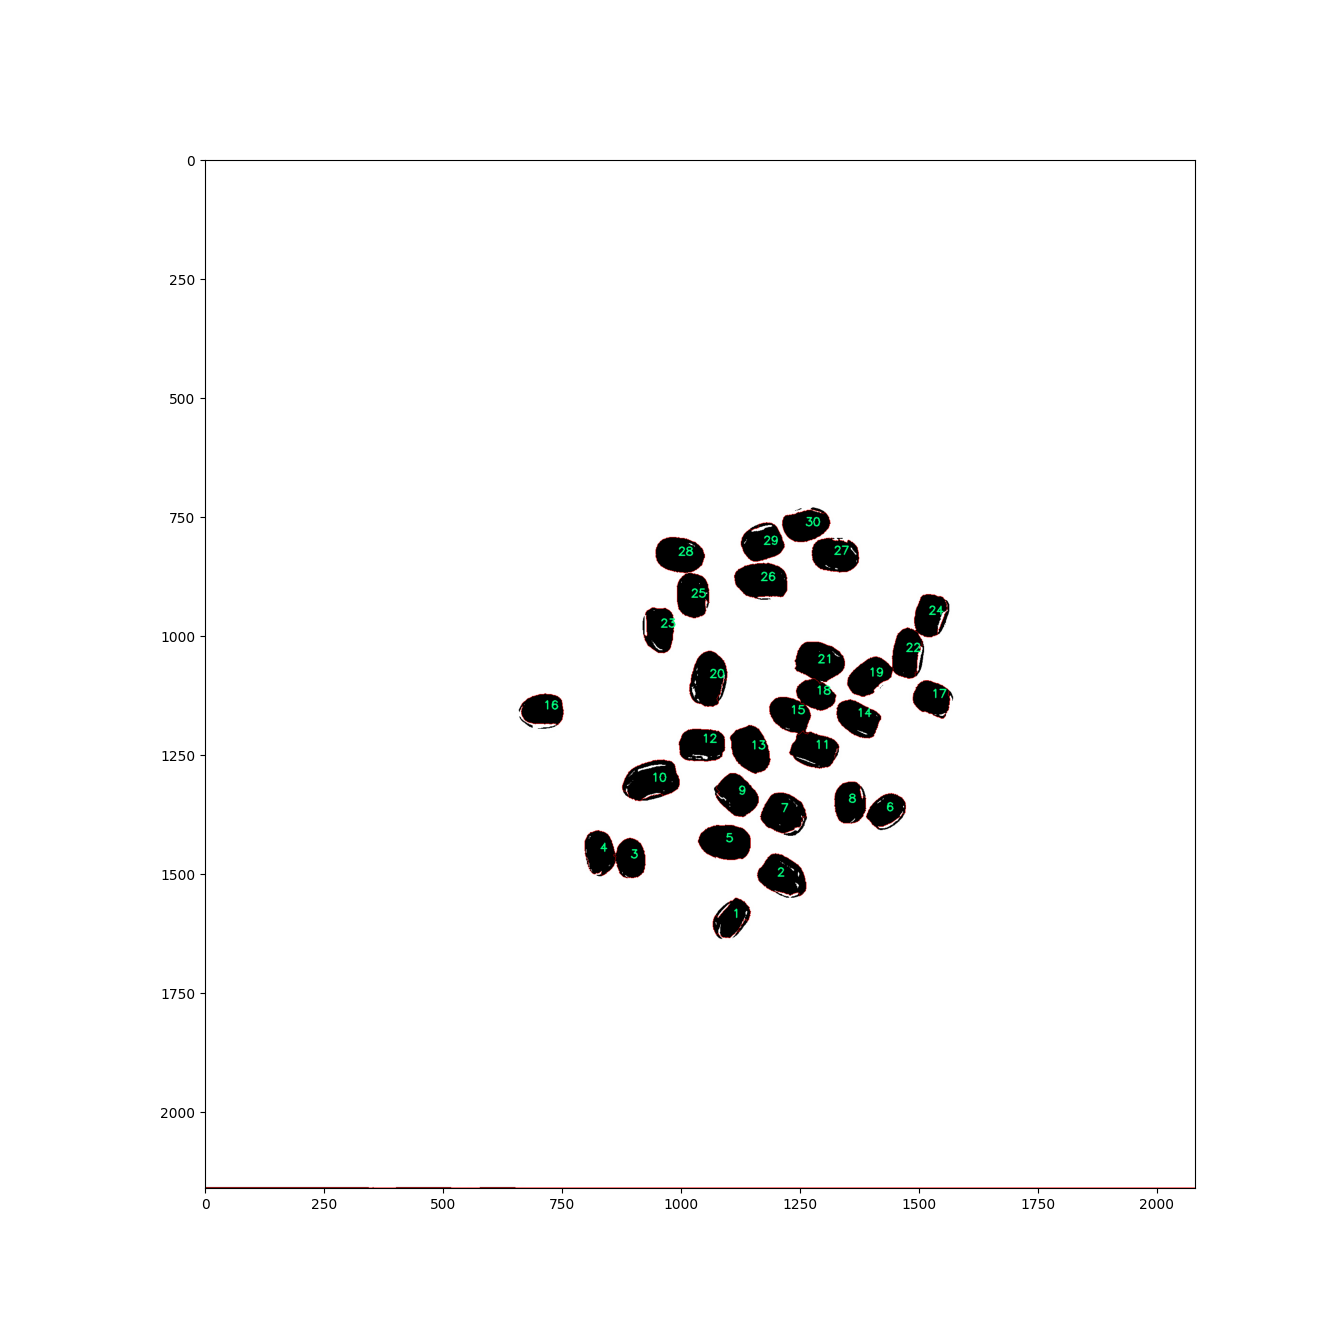
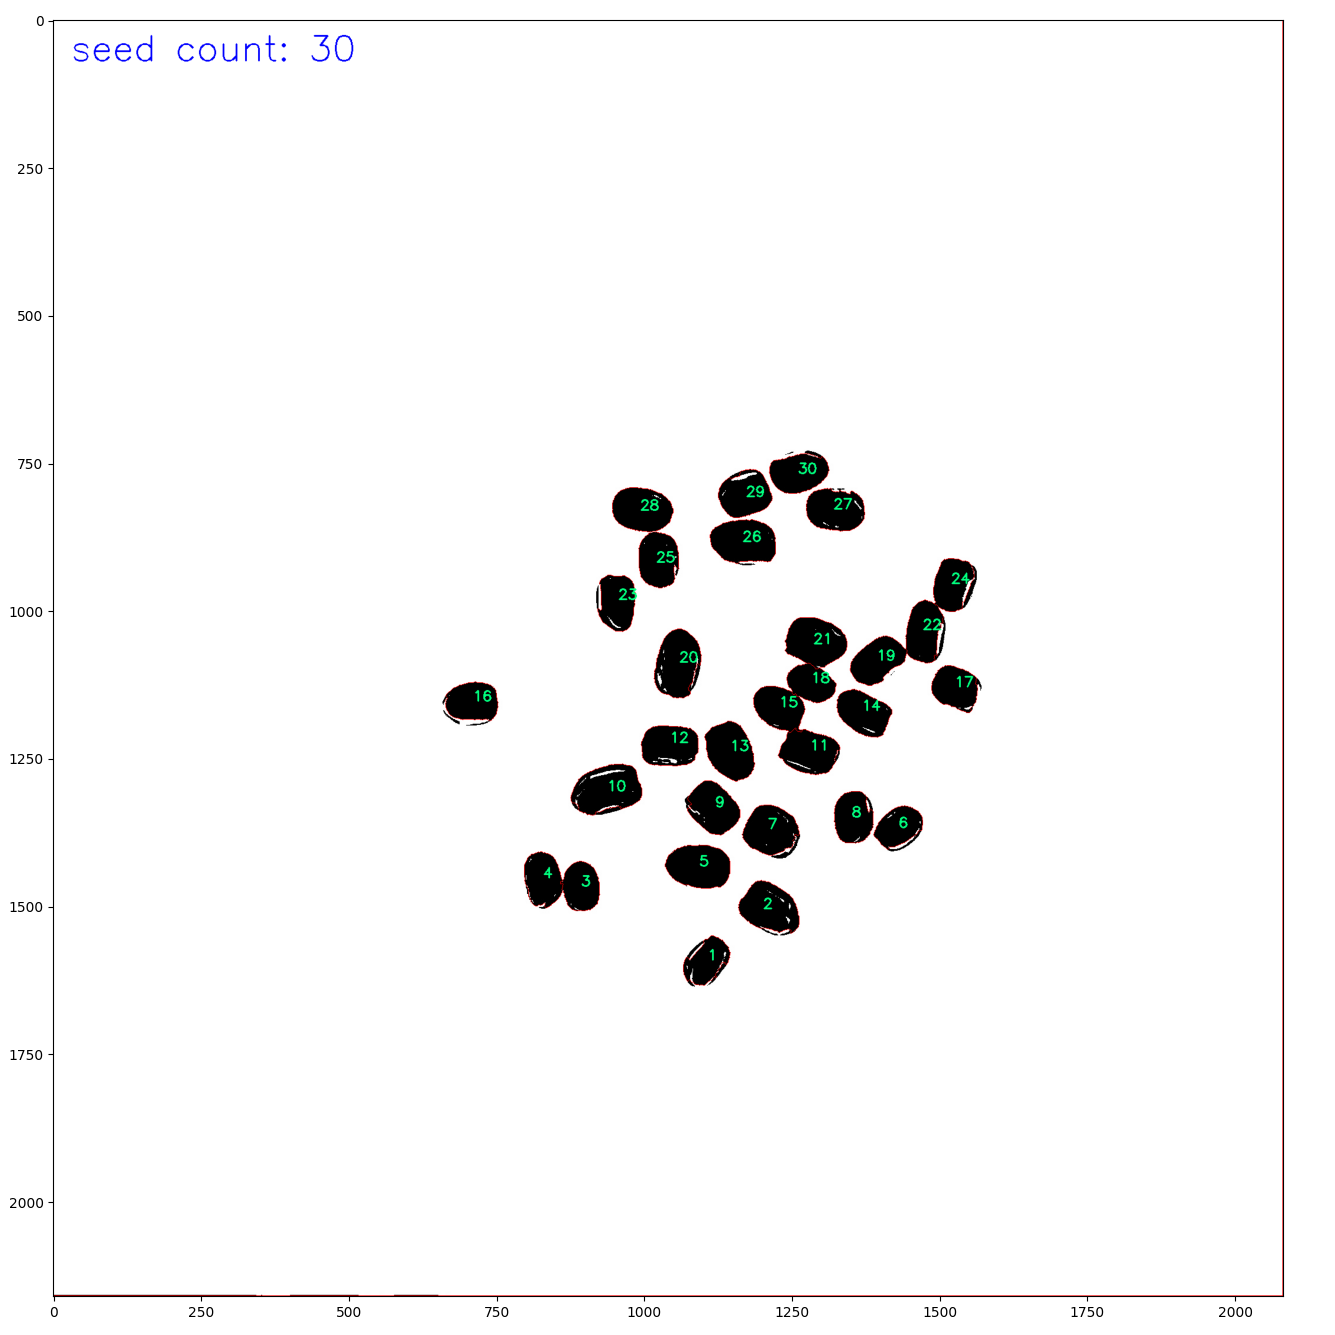
3_code 최종이미지 카운트 텍스트 추가

diff --git a/3_code.py b/3_code.py
@@ -9,6 +9,7 @@ class ImageSegmenter:
         self.img = cv2.imread(self.image_path)
         self.gray = cv2.cvtColor(self.img, cv2.COLOR_BGR2GRAY)
         self.kernel = np.ones((3,3), np.uint8)
+        self.font = cv2.FONT_HERSHEY_SIMPLEX
         self.result_image = self.img.copy()  # result_image 속성 추가
 
     def apply_threshold(self) -> np.ndarray:
@@ -122,6 +123,7 @@ if __name__ == "__main__":
 
     image = IS.apply_watershed(sure_fg, unknown)
     contours = IS.find_contours(sure_fg)
+    cv2.putText(image, f"seed count: {len(contours)}", (30, 70), IS.font, 2, (0, 0, 255), 2)
     annotated_image = IS.annotate_contours(image, contours)  # 수정된 메소드 호출
     plt.imshow(annotated_image)
     plt.show()
